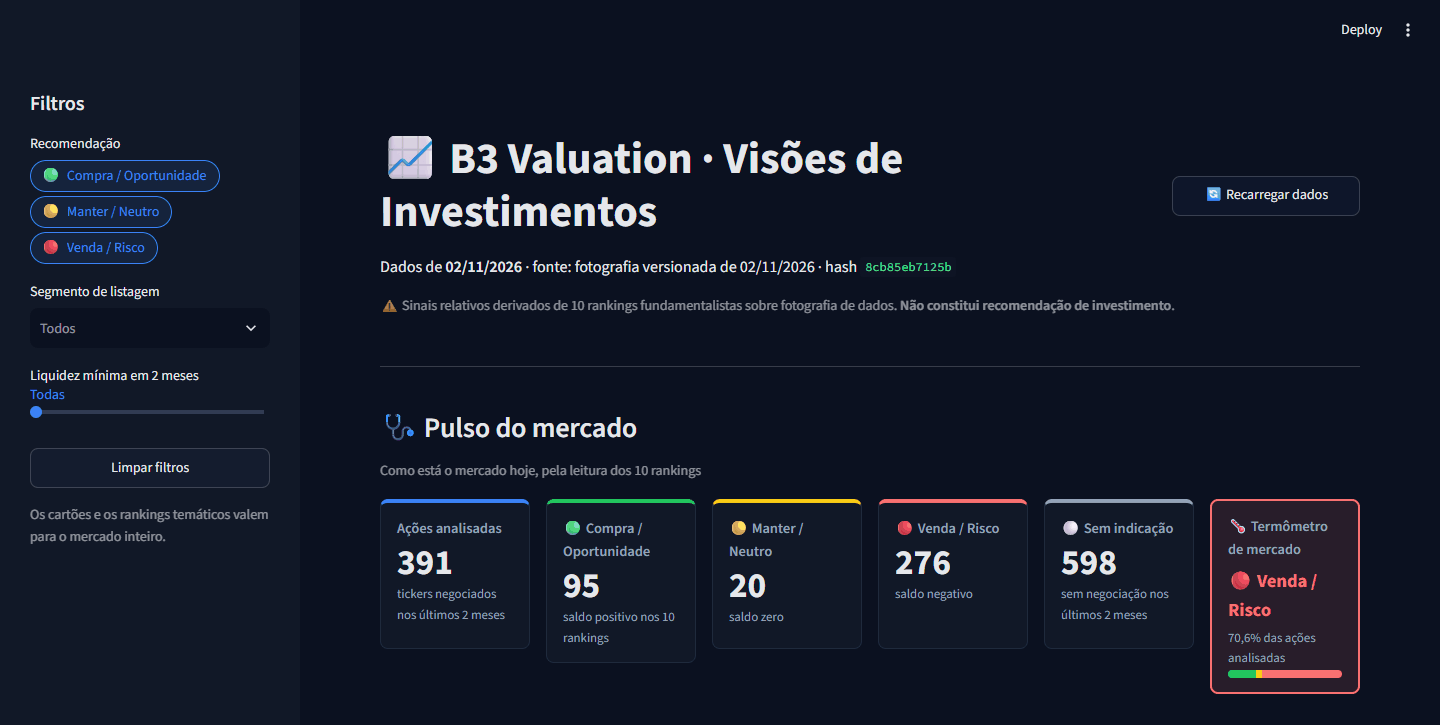
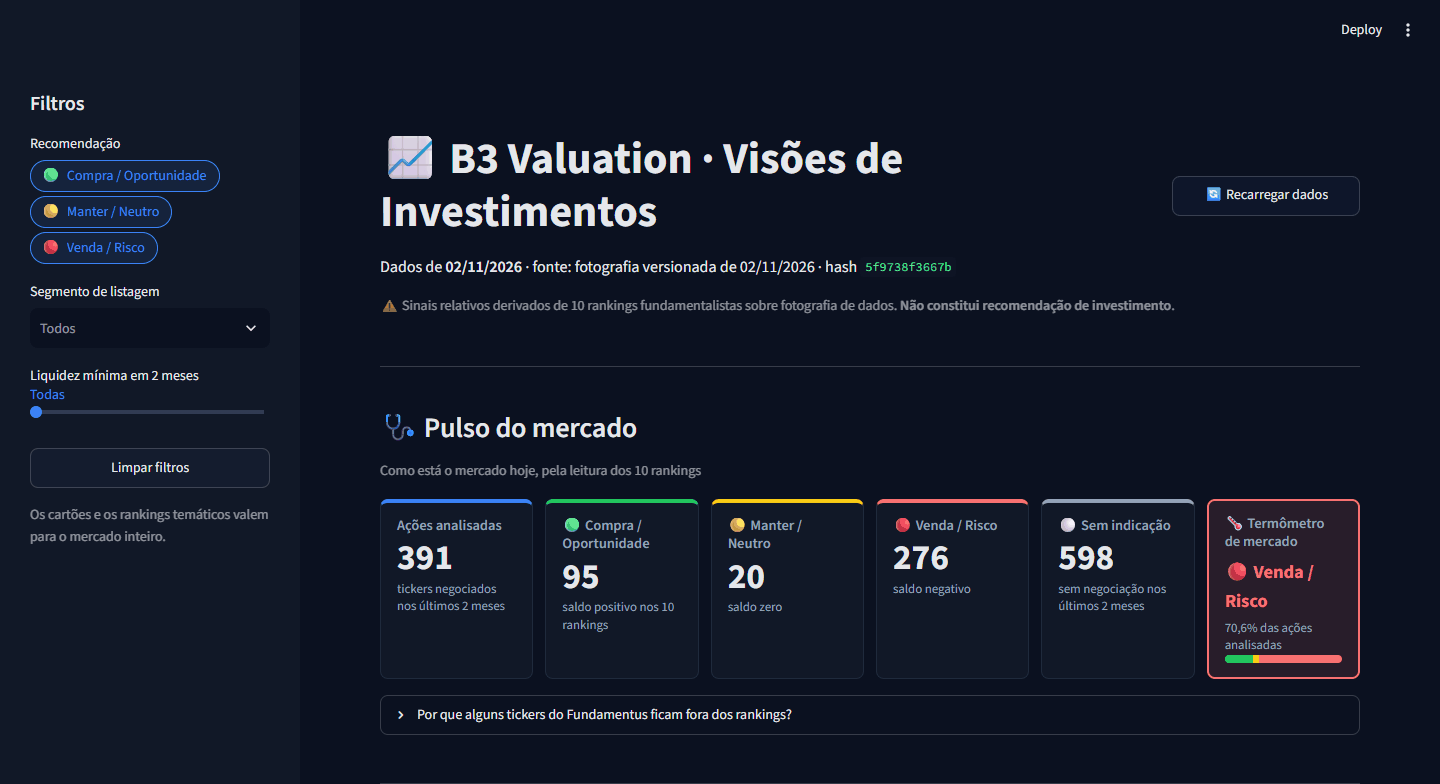
docs: capturas do painel responsivo sobre a fotografia 5f9738f3667b

diff --git a/README.md b/README.md
@@ -129,7 +129,8 @@ exportado só com as colunas que o painel usa).
 
 ## Painel
 
-Capturas sobre a fotografia de 02/11/2026 (hash `8cb85eb7125b`). O
+Capturas em 1440 px sobre a fotografia de 02/11/2026 (hash `5f9738f3667b`, igual ao
+`fotografia/manifesto.json`). O
 [painel publicado](https://valuationb3-zamonari.streamlit.app/) mostra a fotografia mais recente da
 `main`.
 
